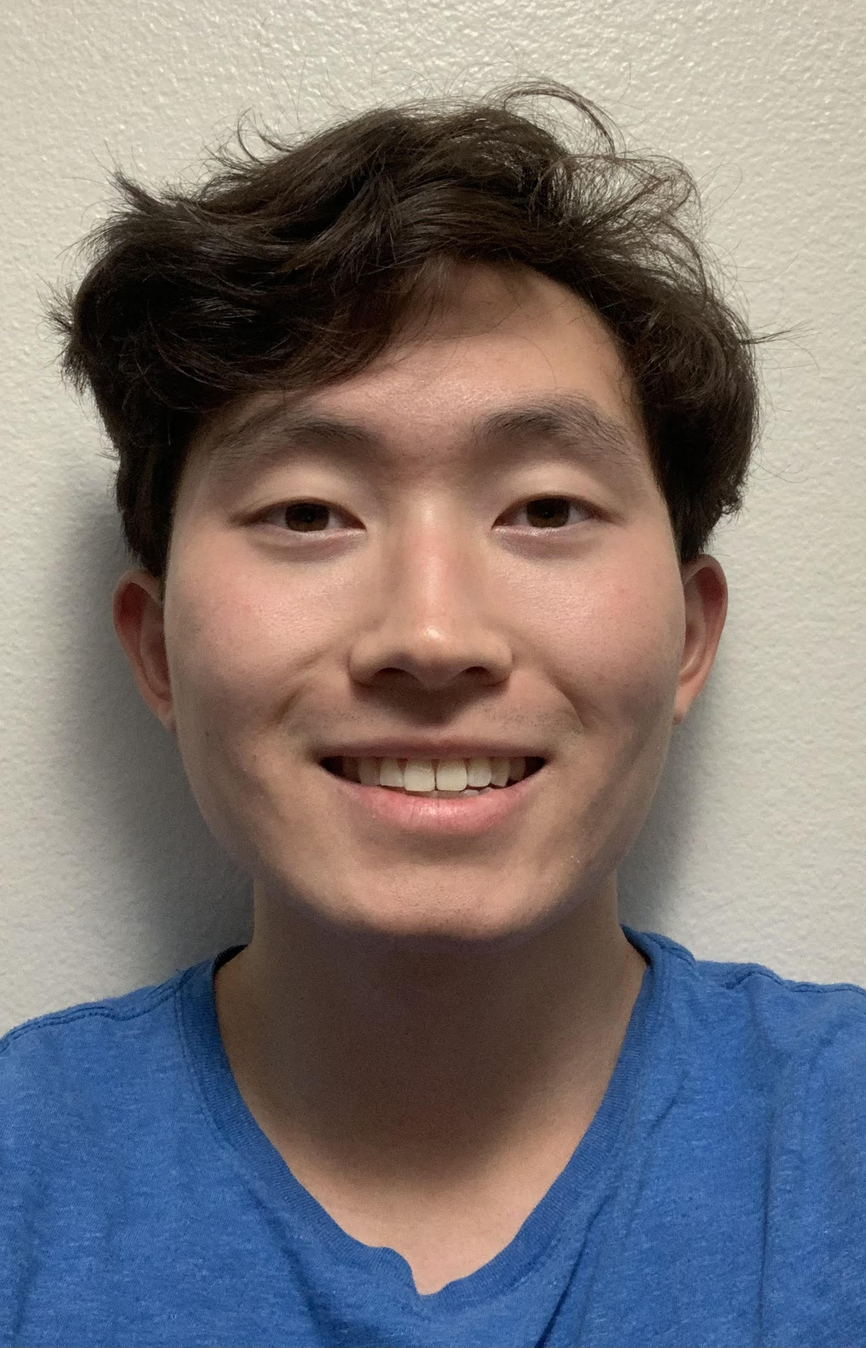
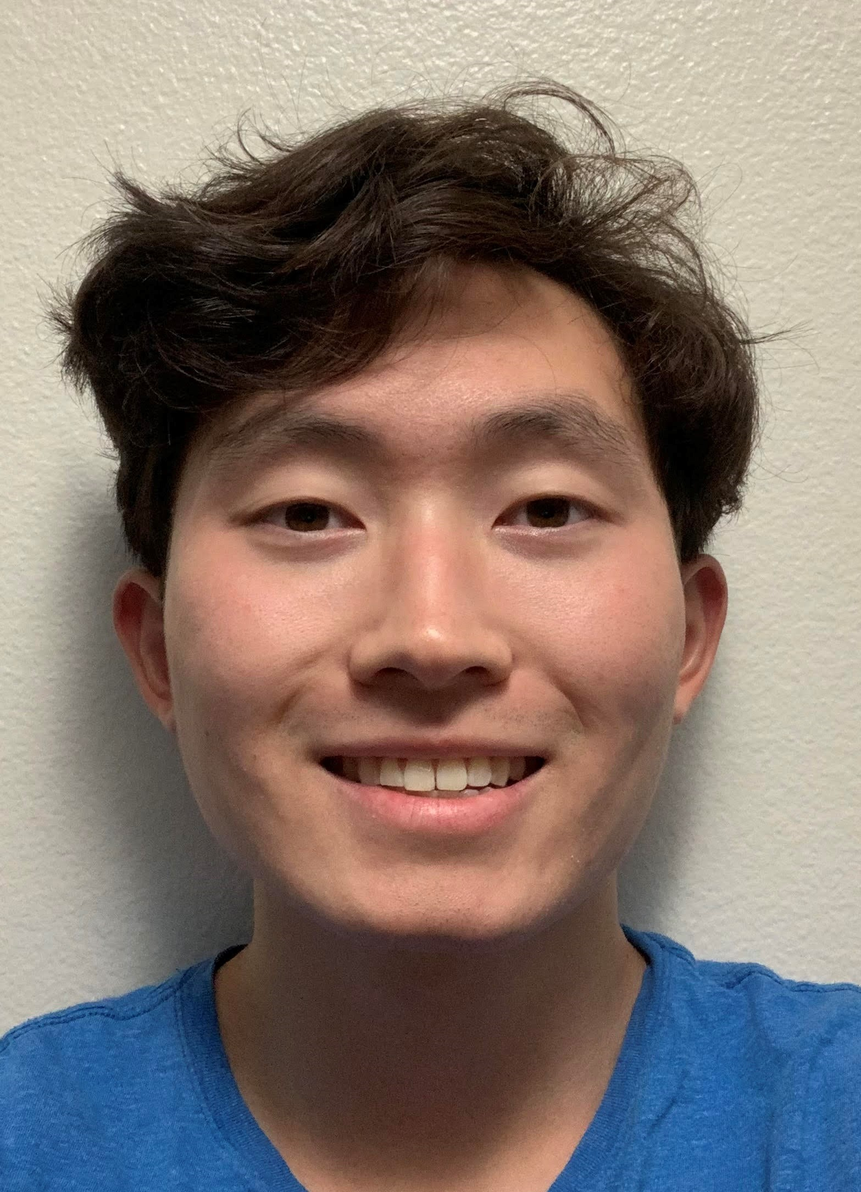
changed photo

diff --git a/css/main.css b/css/main.css
@@ -48,8 +48,8 @@ img {
     display: block;
     margin-left: auto;
     margin-right: auto;
-    width: 30%;
-    border-radius: 50%;
+    width: 35%;
+    border-radius: 45%;
   }
 
 figure {
